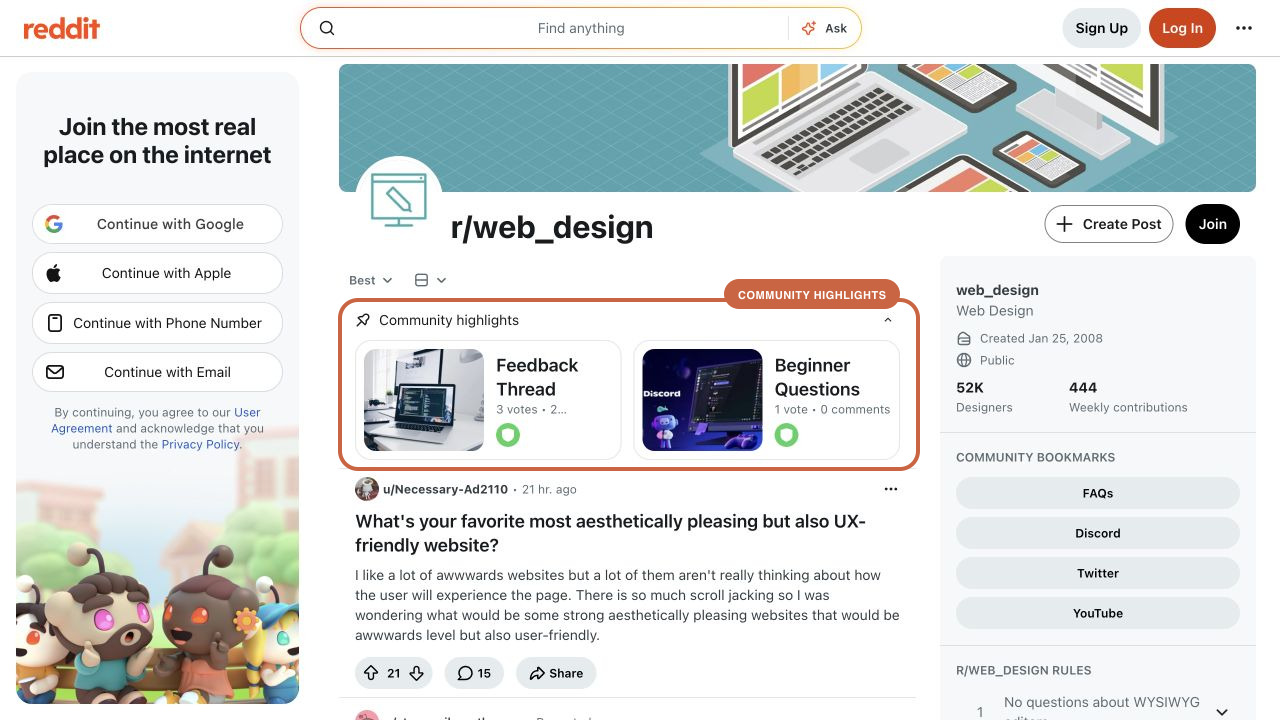
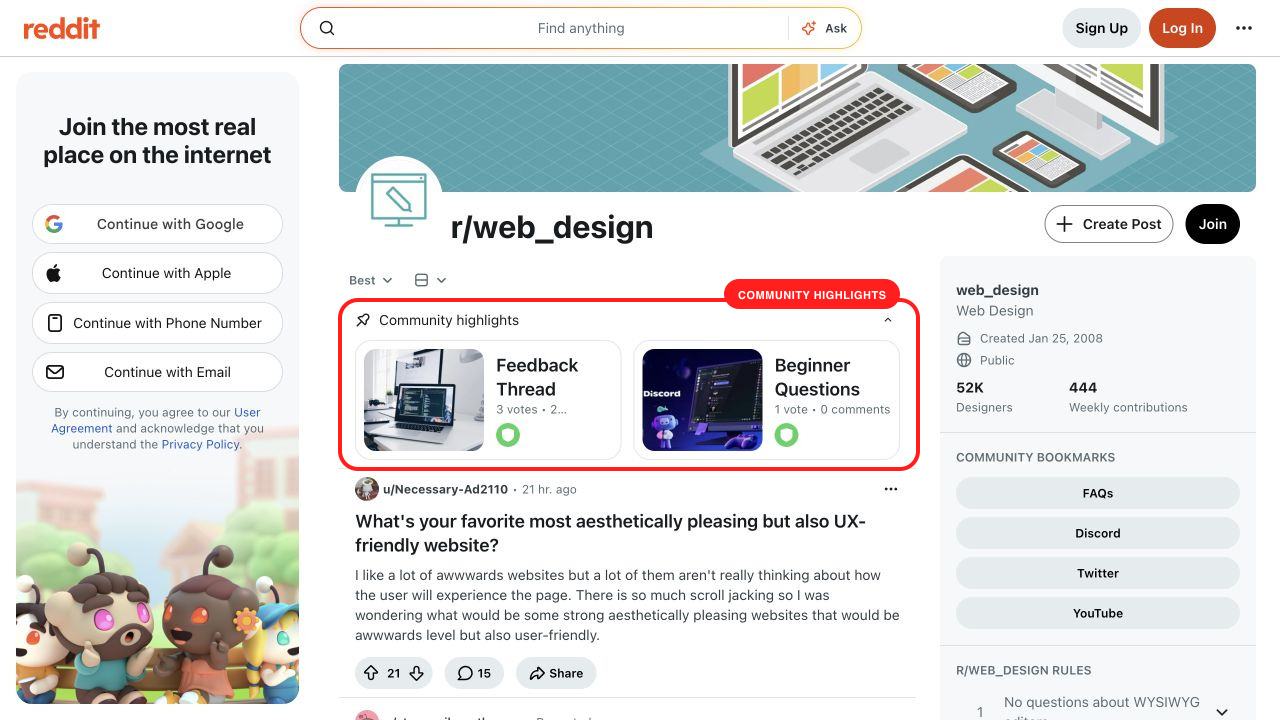
Use bright red annotations

diff --git a/skills/annotate-screenshots/SKILL.md b/skills/annotate-screenshots/SKILL.md
@@ -90,7 +90,7 @@ node /absolute/path/to/annotate-screenshots/scripts/annotate-screenshot.mjs --pr
 
 ## Visual Rules
 
-- Default to the session-derived palette: charcoal `#292522`, terracotta `#C96542`, white, and warm gray `#D9D4CF`.
+- Use bright red `#FF1F1F` for annotation outlines, labels, arrows, and callout targets.
 - Use one accent color across a comparison pair.
 - Keep provenance outside the image unless a compact callout is itself part of the requested evidence.
 - Prefer one primary outline and at most one supporting callout per image.
